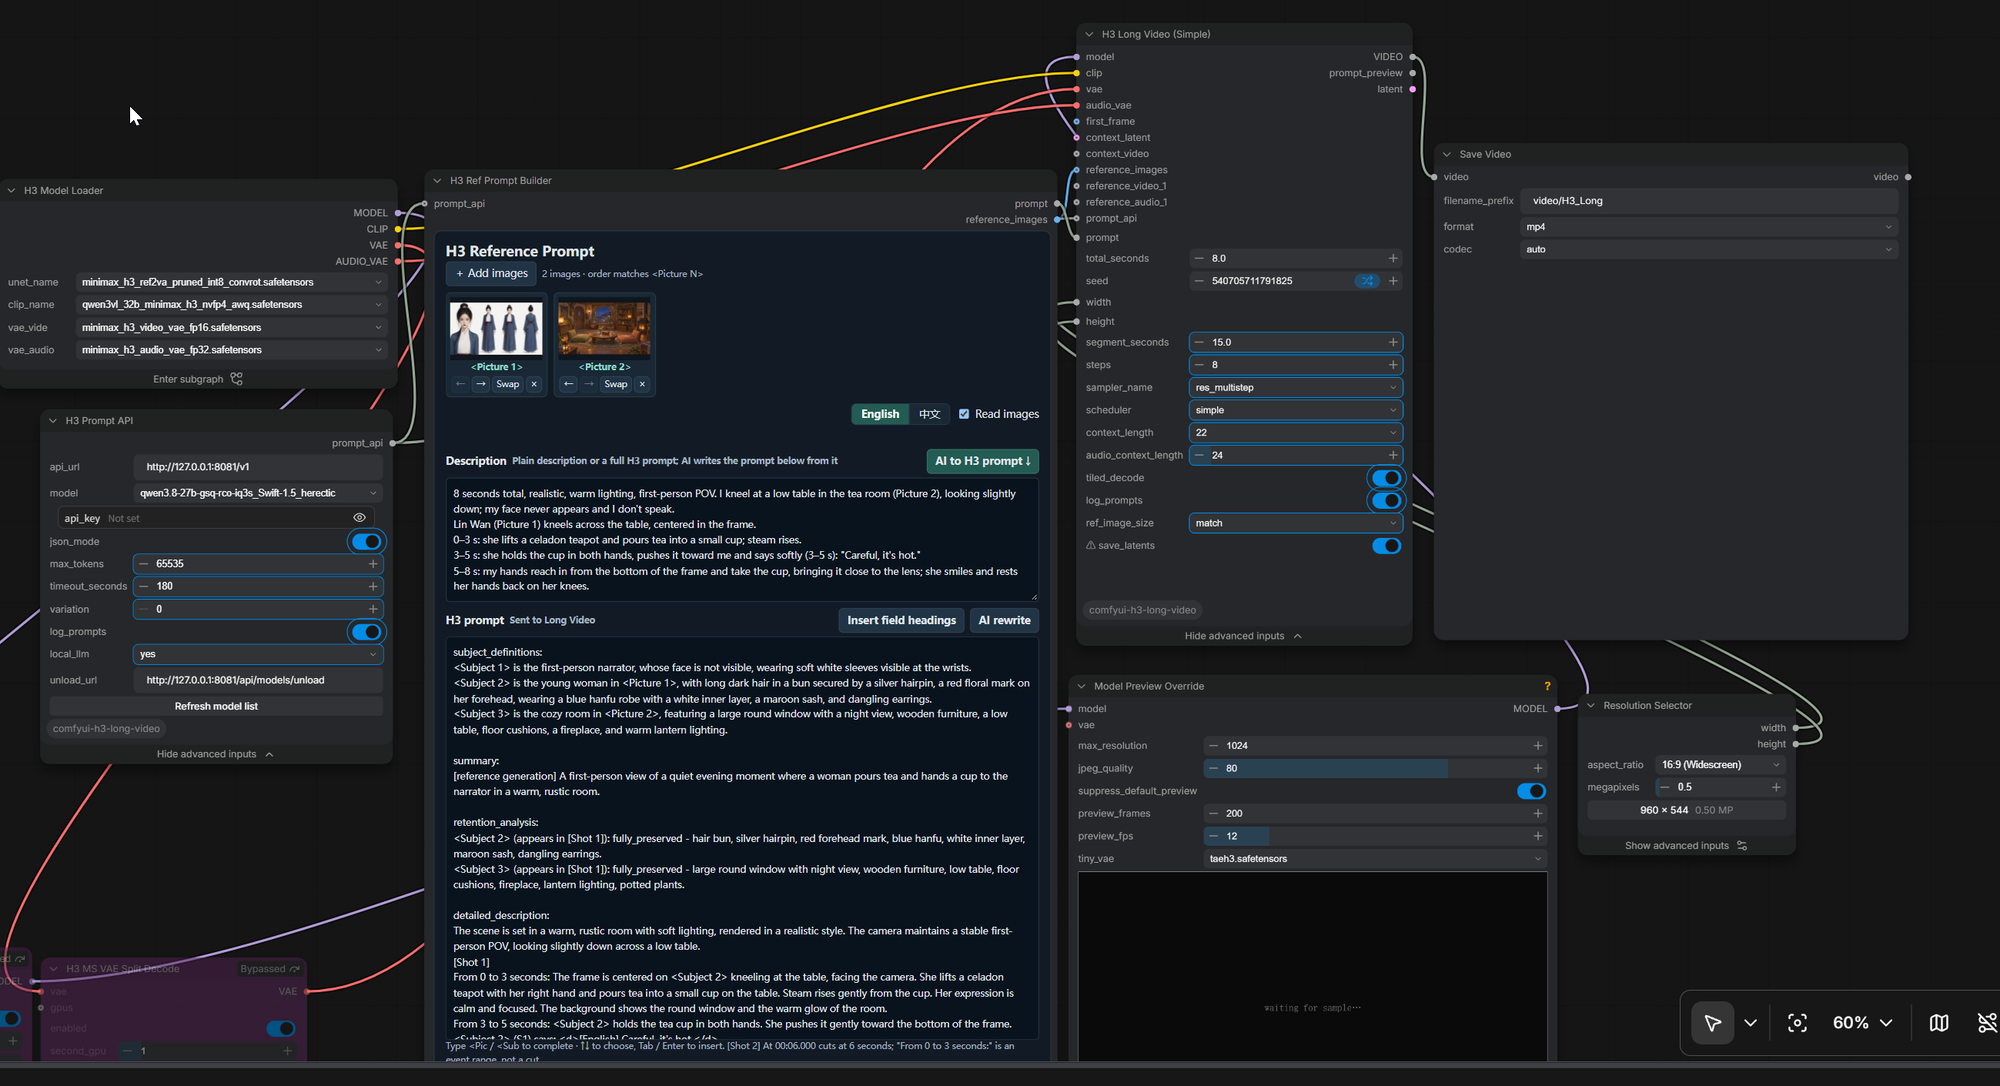
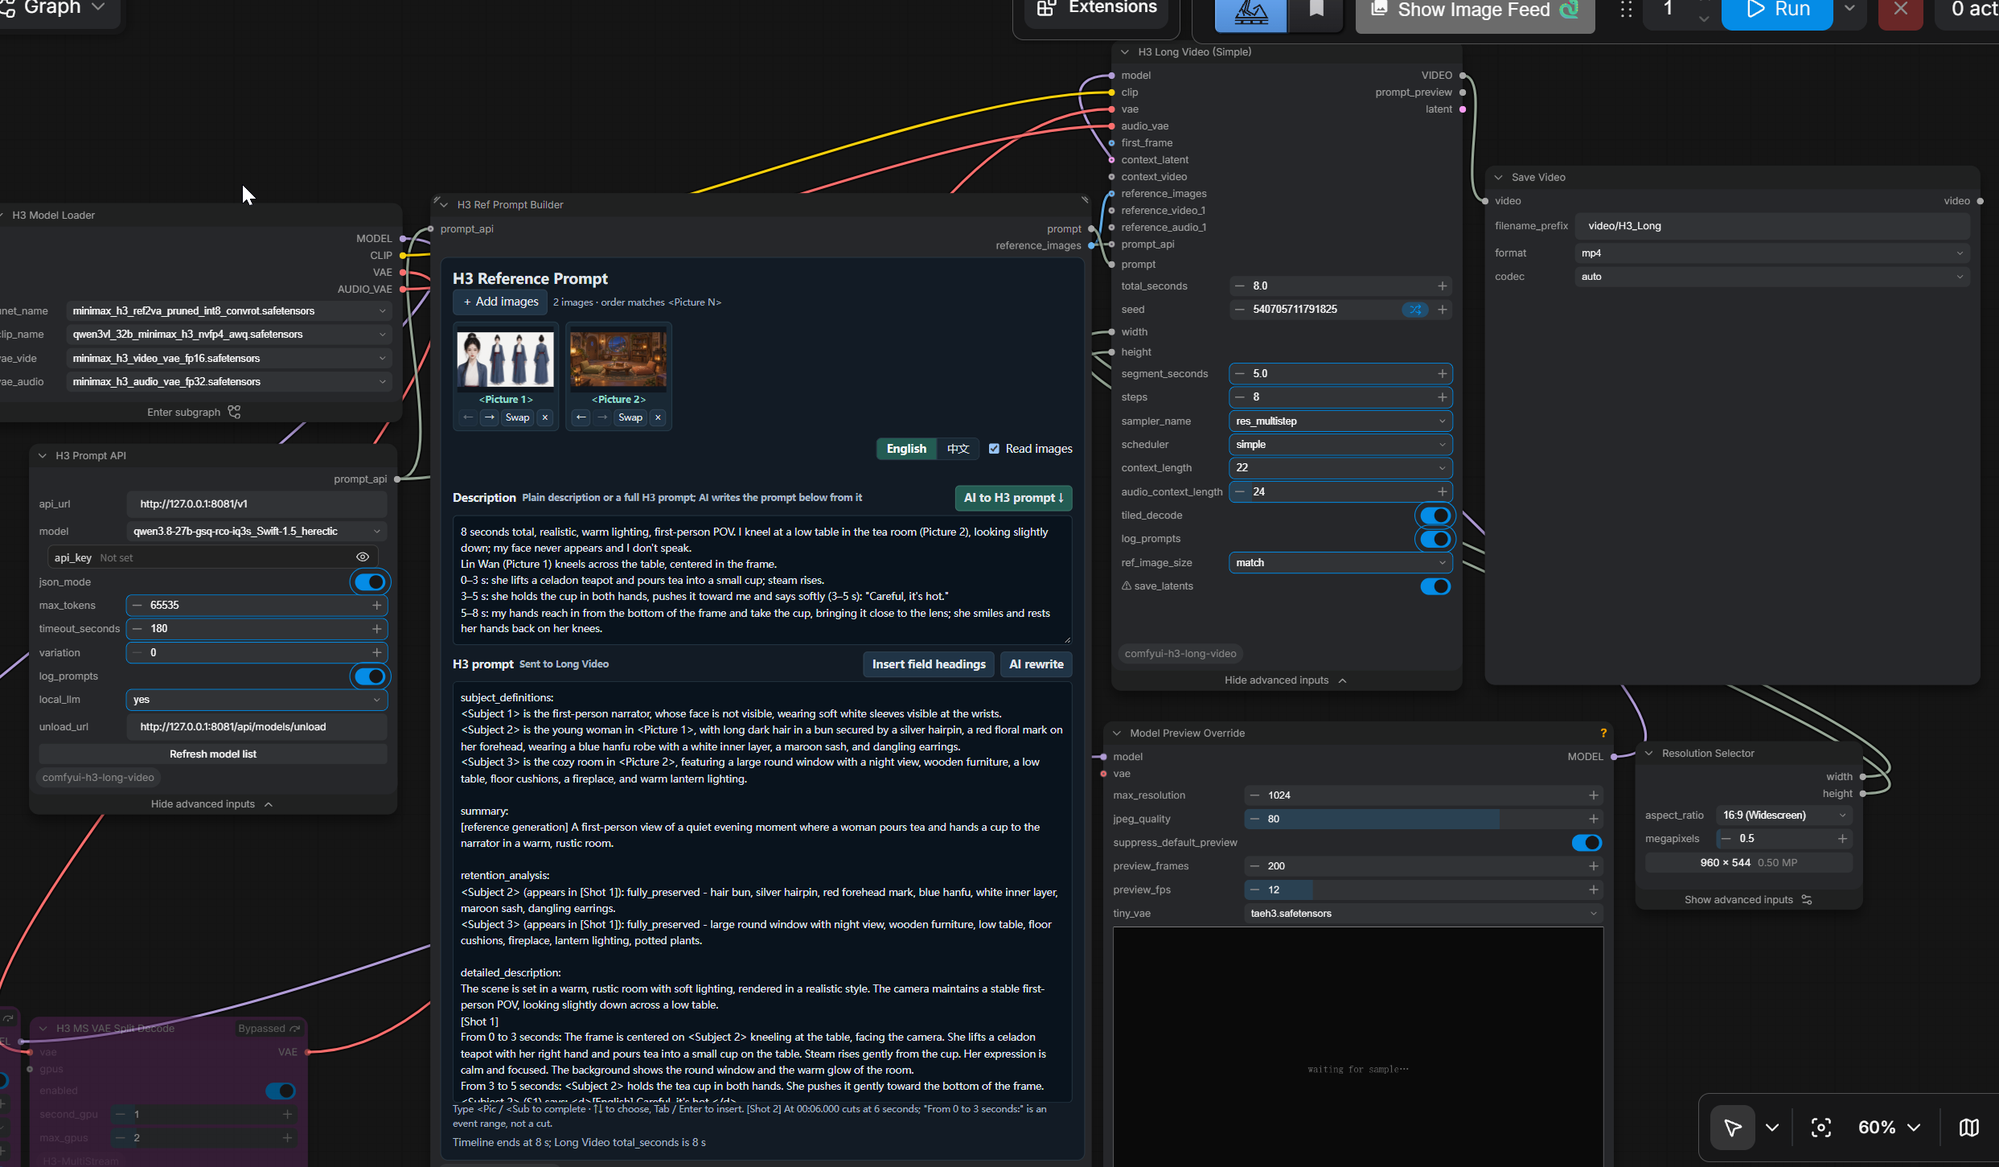
Sample the Ref Prompt Builder example in two segments

diff --git a/README.md b/README.md
@@ -28,7 +28,7 @@ git clone https://github.com/ooizj/ComfyUI-H3-Long-Video.git comfyui-h3-long-vid
 2. Connect **H3 Prompt API** to `prompt_api` and enter your API key or local server. **Required when the video needs more than one segment**; see [Why split the prompt?](#why-split-the-prompt).
 3. Write a description in **H3 Ref Prompt Builder** and click **AI to H3 prompt**, or write the H3 prompt yourself. Set `total_seconds` to the video length and run. `VIDEO` goes to **Save Video**.
 
-The example makes an 8-second video in one segment (`segment_seconds=15`); for a longer `total_seconds` the node works out the segments itself. Shorter segments use less VRAM per sampling pass but add encoding, decoding and continuation overhead, so they are not necessarily faster.
+The example makes an 8-second video in two segments (`segment_seconds=5`): the node works out the segments itself and H3 Prompt API splits the prompt between them. Shorter segments use less VRAM per sampling pass but add encoding, decoding and continuation overhead, so they are not necessarily faster.
 
 <details>
 <summary>Notes on the example workflow</summary>

diff --git a/README_zh-CN.md b/README_zh-CN.md
@@ -28,7 +28,7 @@ git clone https://github.com/ooizj/ComfyUI-H3-Long-Video.git comfyui-h3-long-vid
 2. 把 **H3 Prompt API** 接到 `prompt_api`，填写 API 密钥或本地服务地址。**视频需要多段时必须连接**，见[为什么要拆分提示词](#为什么要拆分提示词)。
 3. 在 **H3 Ref Prompt Builder** 写好描述后点 **AI 生成 H3 提示词**，或自己写 H3 提示词。把 `total_seconds` 设为视频时长后运行，`VIDEO` 接 **Save Video**。
 
-示例生成一段 8 秒视频（`segment_seconds=15`，只有一段）；`total_seconds` 更长时，段数由节点自动计算。较短的分段可降低单次采样显存，但会增加编码、解码和续接开销，不一定更快。
+示例生成 8 秒视频，`segment_seconds=5`，分成两段：段数由节点自动计算，H3 Prompt API 负责把提示词拆到各段。较短的分段可降低单次采样显存，但会增加编码、解码和续接开销，不一定更快。
 
 <details>
 <summary>示例工作流说明</summary>

diff --git a/CHANGELOG.md b/CHANGELOG.md
@@ -8,6 +8,11 @@ rejected any keyframe anchor other than the first or last frame. That
 landed in ComfyUI 0.34.0. Every release through 0.33.4 has the older
 layout. Each entry below says which of the two it works with.
 
+## Unreleased
+
+- The Ref Prompt Builder example uses `segment_seconds=5`, so its 8-second
+  video is sampled in two segments.
+
 ## 0.13.0 - 2026-10-22
 
 Requires ComfyUI 0.36.0 or newer. Restart ComfyUI after updating.
